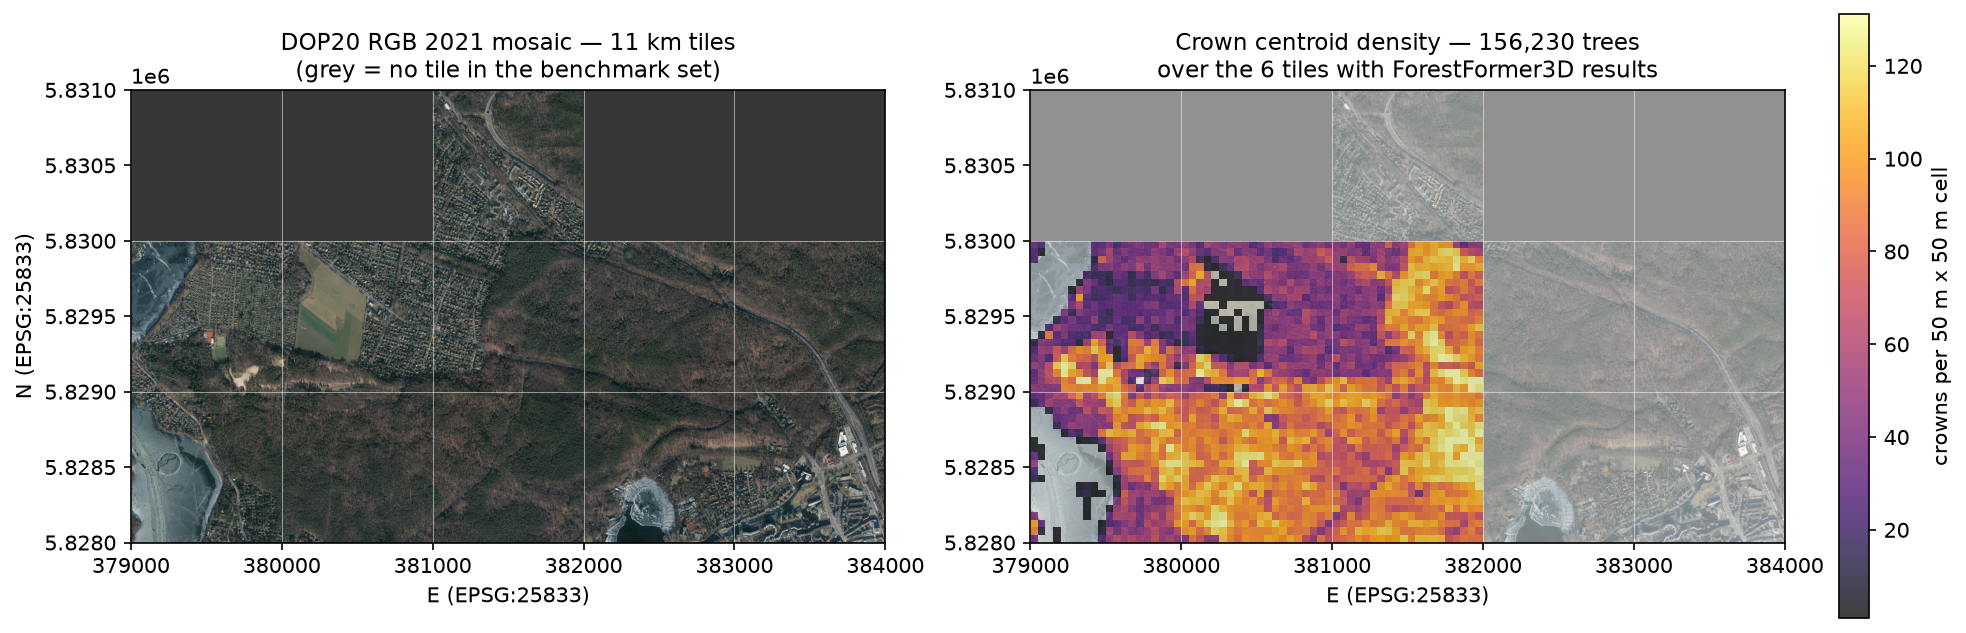
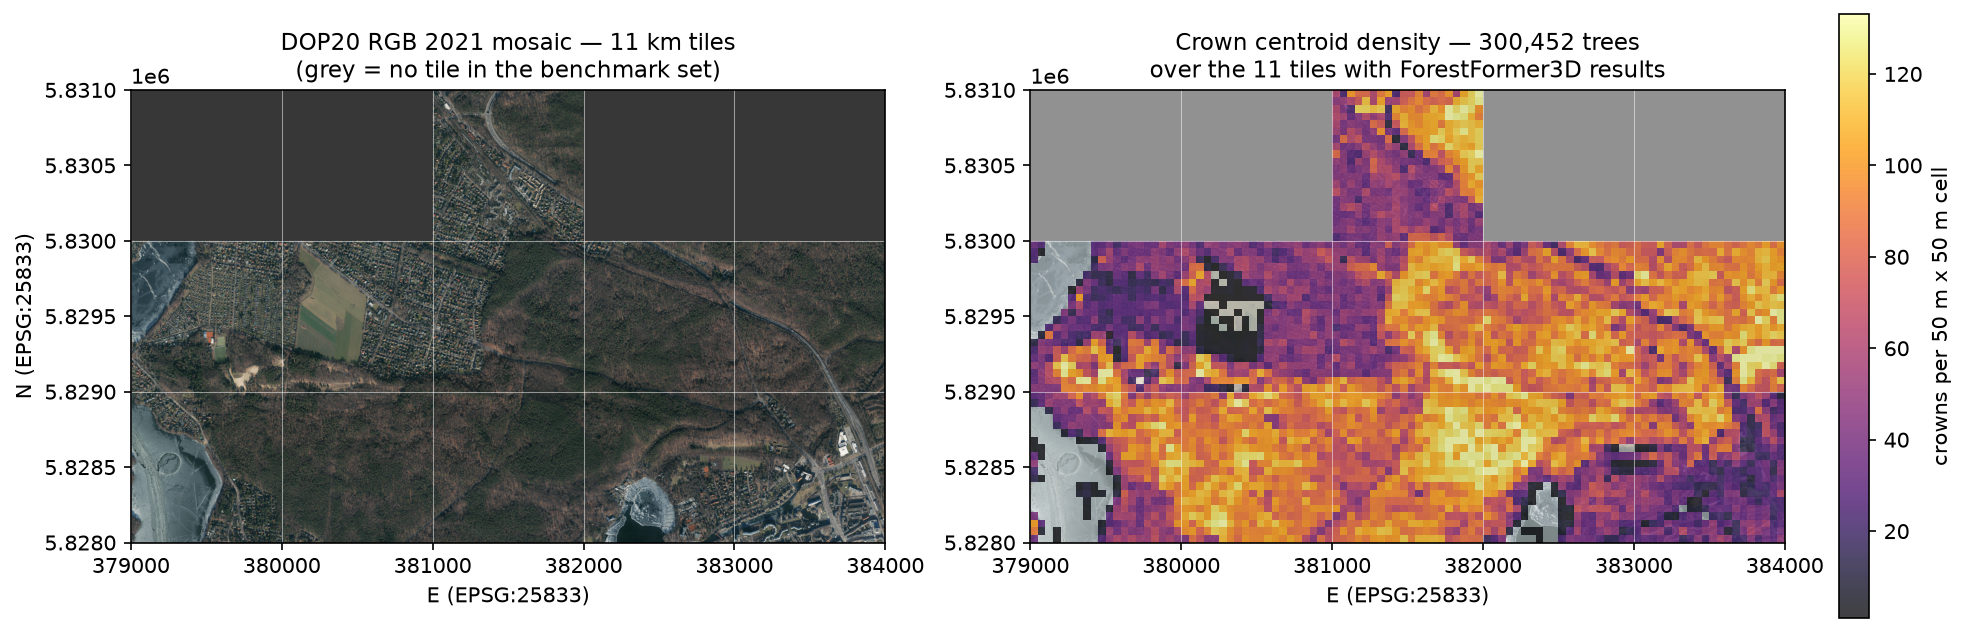
docs: overview figures and per-tile table with all eleven Tegel tiles

diff --git a/docs/benchmarks/2026-09-23-berlin-visual-report.md b/docs/benchmarks/2026-09-23-berlin-visual-report.md
@@ -116,8 +116,14 @@ Numbers from each tile's `_trees.gpkg` and `_report.json`.
 | 3dm_33_379_5828_1_be | 12,671,526 | 17,754 | 20,420 | 16.6 | 26.9 | 94.7 % |
 | 3dm_33_379_5829_1_be | 15,085,213 | 16,144 | 20,648 | 10.8 | 25.9 | 88.9 % |
 | 3dm_33_380_5828_1_be | 25,073,247 | 37,386 | 39,876 | 21.9 | 27.4 | 97.6 % |
+| 3dm_33_380_5829_1_be | 16,283,451 | 16,503 | 19,772 | 8.4 | 25.9 | 88.4 % |
 | 3dm_33_381_5828_1_be | 25,175,784 | 37,058 | 41,616 | 25.0 | 27.7 | 97.6 % |
 | 3dm_33_381_5829_1_be | 23,246,640 | 31,385 | 34,809 | 17.6 | 27.2 | 96.2 % |
+| 3dm_33_381_5830_1_be | 18,638,283 | 26,440 | 30,516 | 14.7 | 24.8 | 93.7 % |
+| 3dm_33_382_5828_1_be | 20,188,173 | 27,538 | 32,297 | 20.4 | 27.1 | 96.1 % |
+| 3dm_33_382_5829_1_be | 27,012,312 | 34,752 | 39,719 | 21.9 | 28.2 | 97.5 % |
+| 3dm_33_383_5828_1_be | 16,085,492 | 18,470 | 26,946 | 12.9 | 26.3 | 92.5 % |
+| 3dm_33_383_5829_1_be | 27,084,463 | 37,022 | 40,119 | 20.6 | 26.1 | 97.3 % |
 
 "Ground/veg agreement" is the fraction of points where the predicted ground/non-ground
 split matches the ALS `classification` (class 2 vs the rest).

diff --git a/docs/benchmarks/2026-09-23-berlin-dop-overlay.md b/docs/benchmarks/2026-09-23-berlin-dop-overlay.md
@@ -144,7 +144,7 @@ and the generally larger 2025 crowns where the stand simply grew into its outlin
 Left: the eleven fetched DOP tiles laid out on their real EPSG:25833 grid (grey =
 no tile at that grid cell in the benchmark set — only `381_5830` exists in the
 northern row). Right: the same mosaic behind a 50 m crown-centroid density map built
-from the `<tile>_trees.gpkg` files of the six tiles that have ForestFormer3D results
+from the `<tile>_trees.gpkg` files of all eleven tiles (all have ForestFormer3D results)
 (156,230 trees). Look for: density tracking the forest exactly, dropping to zero over
 the lake in the south-west, the sports field at `E380400 N5829400` and the road
 corridors, and peaking above 120 crowns per 50 m cell in the dense young pine
